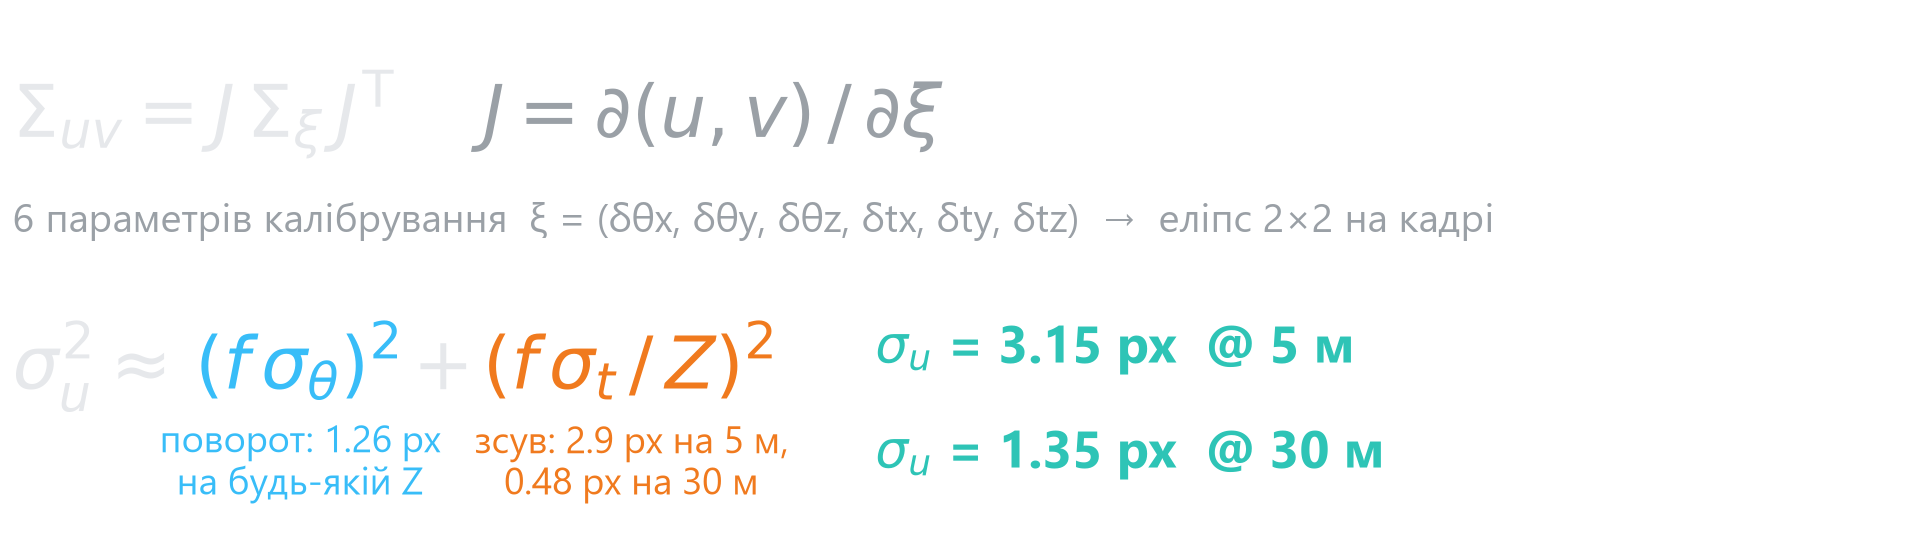
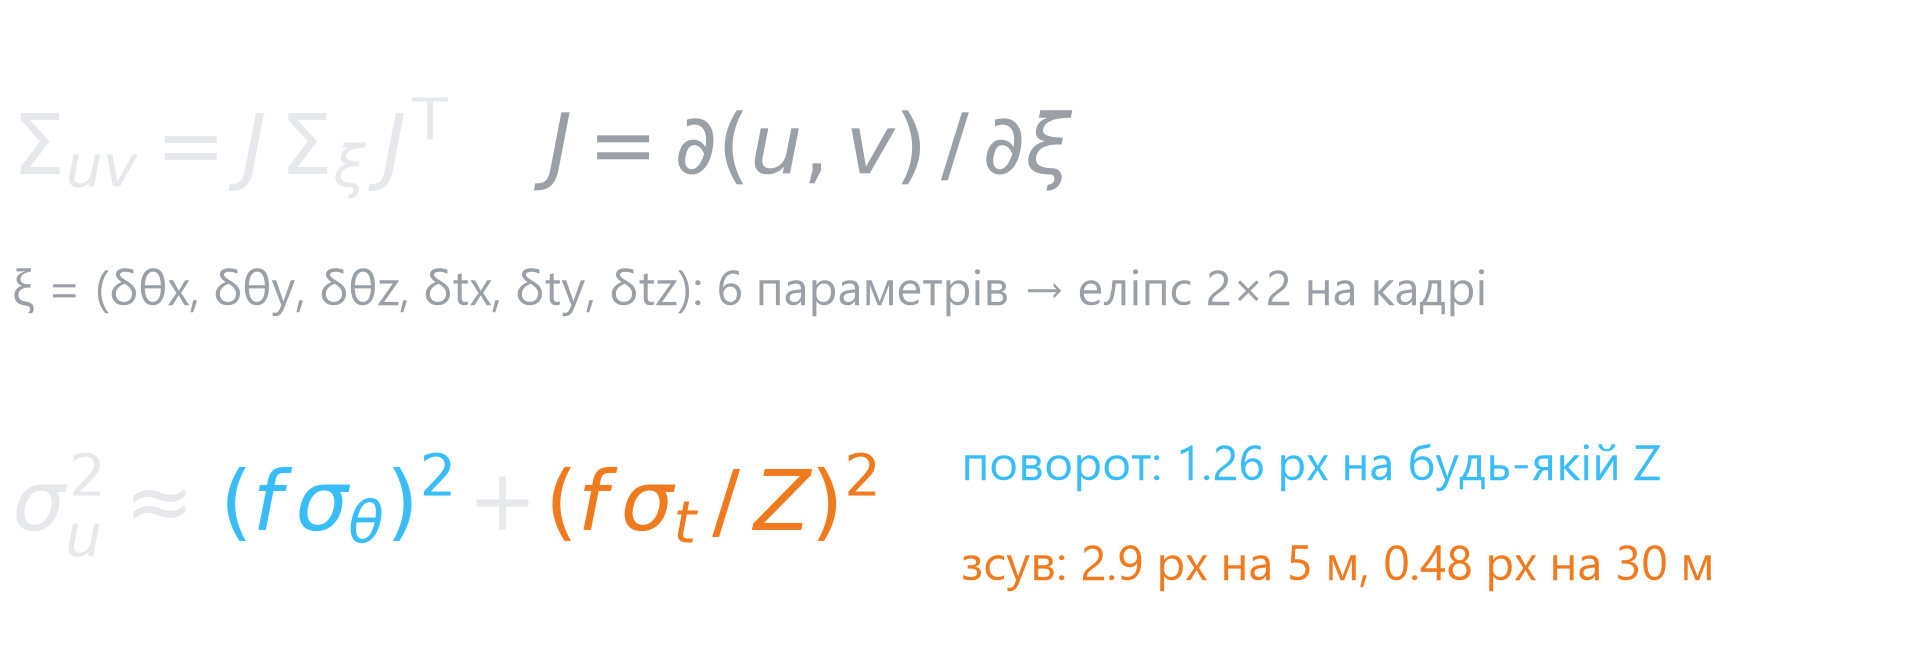
Slide 24: larger formula text, values next to terms

diff --git a/scripts/p24_formula.py b/scripts/p24_formula.py
@@ -1,7 +1,8 @@
 """Slide 24: covariance propagation formulas rendered as math, colour-coded like the chart on the slide.
 
 Usage: p24_formula.py <out.png>
-Transparent PNG for the dark card. Numbers: f = 721.5 px, σθ = 0.1°, σt = 2 cm (Demo 1).
+Transparent PNG for the dark card. Numbers: f = 721.5 px, σθ = 0.1°, σt = 2 cm (Demo 1); the totals per
+distance are in the table next to it on the slide.
 """
 import sys
 
@@ -13,10 +14,10 @@ import numpy as np
 out = sys.argv[1]
 plt.rcParams.update({"font.family": "Segoe UI", "mathtext.fontset": "dejavusans"})
 FG, MUTED = "#e6e8eb", "#9aa0a6"
-ROT, TR, SUM = "#38bdf8", "#f07a1e", "#2ec4b6"  # chart colours: rotation, translation, total
+ROT, TR = "#38bdf8", "#f07a1e"  # chart colours: rotation, translation
 F, S_TH, S_T = 721.5, np.radians(0.1), 0.02
 
-fig = plt.figure(figsize=(7.6, 2.1))
+fig = plt.figure(figsize=(7.6, 2.5))
 fig.patch.set_alpha(0)
 ax = fig.add_axes([0, 0, 1, 1])
 ax.set_xlim(0, 1); ax.set_ylim(0, 1); ax.axis("off")
@@ -36,23 +37,17 @@ def row(x, y, parts, size, gap=0.004):
 
 
 # general form
-row(0.0, 0.76, [(r"$\Sigma_{uv} = J\,\Sigma_\xi\,J^{\mathsf{T}}$", FG),
-                (r"$J = \partial(u,v)\,/\,\partial\xi$", MUTED)], 21, gap=0.045)
-ax.text(0.0, 0.58, "6 параметрів калібрування  ξ = (δθx, δθy, δθz, δtx, δty, δtz)  →  еліпс 2×2 на кадрі",
-        color=MUTED, fontsize=11.5, va="baseline")
+row(0.0, 0.74, [(r"$\Sigma_{uv} = J\,\Sigma_\xi\,J^{\mathsf{T}}$", FG),
+                (r"$J = \partial(u,v)\,/\,\partial\xi$", MUTED)], 24, gap=0.05)
+ax.text(0.0, 0.53, "ξ = (δθx, δθy, δθz, δtx, δty, δtz): 6 параметрів → еліпс 2×2 на кадрі",
+        color=MUTED, fontsize=14, va="baseline")
 
-# on-axis approximation with colour-coded terms
-sp = row(0.0, 0.28, [(r"$\sigma_u^2 \approx$", FG), (r"$(f\,\sigma_\theta)^2$", ROT), (r"$+$", FG),
-                     (r"$(f\,\sigma_t\,/\,Z)^2$", TR)], 21)
-rot_px = F * S_TH
-ax.text((sp[1][0] + sp[1][1]) / 2, 0.08, f"поворот: {rot_px:.2f} px\nна будь-якій Z", color=ROT, fontsize=11,
-        ha="center", va="baseline", linespacing=1.15)
-ax.text((sp[3][0] + sp[3][1]) / 2, 0.08, f"зсув: {F * S_T / 5:.1f} px на 5 м,\n{F * S_T / 30:.2f} px на 30 м",
-        color=TR, fontsize=11, ha="center", va="baseline", linespacing=1.15)
-x_eq = sp[3][1] + 0.05
-for k, Z in enumerate((5, 30)):
-    s = np.hypot(rot_px, F * S_T / Z)
-    ax.text(x_eq, 0.33 - k * 0.2, rf"$\sigma_u$ = {s:.2f} px  @ {Z} м", color=SUM, fontsize=15, va="baseline",
-            fontweight="bold")
+# on-axis approximation with colour-coded terms, the value of each term to the right
+sp = row(0.0, 0.17, [(r"$\sigma_u^2 \approx$", FG), (r"$(f\,\sigma_\theta)^2$", ROT), (r"$+$", FG),
+                     (r"$(f\,\sigma_t\,/\,Z)^2$", TR)], 24)
+x = sp[-1][1] + 0.04
+ax.text(x, 0.25, f"поворот: {F * S_TH:.2f} px на будь-якій Z", color=ROT, fontsize=14, va="baseline")
+ax.text(x, 0.09, f"зсув: {F * S_T / 5:.1f} px на 5 м, {F * S_T / 30:.2f} px на 30 м", color=TR, fontsize=14,
+        va="baseline")
 fig.savefig(out, dpi=250, transparent=True, bbox_inches="tight", pad_inches=0.05)
 print("saved", out)
